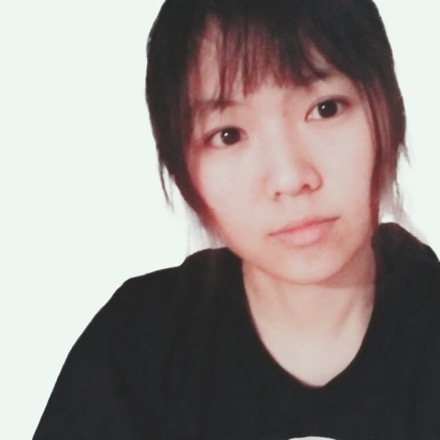
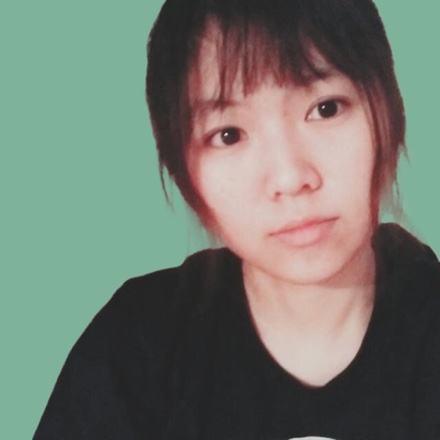
Raise the contrast of the team section's shapes
Measured, not eyeballed. Every text pair in the section already passed -- name
16.09:1, role 4.99, Full bio link 9.02. The failures were the shapes:

  portrait plate vs canvas   1.08:1   (needs 3)
  section hairline           1.24:1   (needs 3)

--p-sage was chosen for the cut-out background when the portrait still sat
inside a bordered white card. With the card gone it sits straight on the
--p-bg canvas at nearly the same lightness, so every portrait lost its edge.

The plate deepens to #7eb29b, 2.36:1. Not the full 3 on purpose: reaching it
in this hue means a loud green that fights the rest of the palette, and
--p-deep at 9.02:1 was rejected because Yichun and Lisha have dark hair and
Lisha wears black, which would lose the silhouette.

Bowen's avatar carried its own #a8c3a7 disc, so it is recoloured to the same
plate. The anti-aliased rim between that disc and the white square needed
handling as a third case -- matching only the two endpoint colours left a pale
ring. It is renamed from -cat.png to -avatar.jpg since it is no longer the
original asset.

The hairline goes to rgba(47,76,85,.3), 1.67:1, so the section break it was
added to draw is actually drawn. Role caps go from 10.6px to 11.2px, over the
caption floor.

diff --git a/index.html b/index.html
@@ -46,7 +46,7 @@
     <link rel="stylesheet" href="polish.css?v=responsive-awards-5">
     <link rel="stylesheet" href="git-original-sections.css?v=2">
     <link rel="stylesheet" href="responsive-fixes.css?v=3">
-    <link rel="stylesheet" href="team-section.css?v=5">
+    <link rel="stylesheet" href="team-section.css?v=6">
   </head>
   <body class="bg-paper font-sans text-ink antialiased">
     <a class="skip-link" href="#top">Skip to main content</a>
@@ -244,7 +244,7 @@
           <div class="team-grid">
             <article class="team-card" data-od-id="team-card-yichun">
               <div class="team-photo">
-                <img decoding="async" loading="lazy" width="440" height="440" src="assets/team-yichun-photo.jpg?v=portrait" alt="Yichun Liu">
+                <img decoding="async" loading="lazy" width="440" height="440" src="assets/team-yichun-photo.jpg?v=plate" alt="Yichun Liu">
               </div>
               <div class="team-info">
                 <div>
@@ -261,7 +261,7 @@
             </article>
             <article class="team-card" data-od-id="team-card-mengwen">
               <div class="team-photo">
-                <img decoding="async" loading="lazy" width="440" height="440" src="assets/team-mengwen-photo.jpg?v=portrait" alt="Mengwen Yu">
+                <img decoding="async" loading="lazy" width="440" height="440" src="assets/team-mengwen-photo.jpg?v=plate" alt="Mengwen Yu">
               </div>
               <div class="team-info">
                 <div>
@@ -278,7 +278,7 @@
             </article>
             <article class="team-card" data-od-id="team-card-lisha">
               <div class="team-photo">
-                <img decoding="async" loading="lazy" width="440" height="440" src="assets/team-lisha-photo.jpg?v=portrait" alt="Lisha Chen">
+                <img decoding="async" loading="lazy" width="440" height="440" src="assets/team-lisha-photo.jpg?v=plate" alt="Lisha Chen">
               </div>
               <div class="team-info">
                 <div>
@@ -290,7 +290,7 @@
             </article>
             <article class="team-card" data-od-id="team-card-bowen">
               <div class="team-photo">
-                <img decoding="async" loading="lazy" width="500" height="500" src="assets/team-bowen-cat.png" alt="Bowen Wei's illustrated cat avatar">
+                <img decoding="async" loading="lazy" width="440" height="440" src="assets/team-bowen-avatar.jpg" alt="Bowen Wei's illustrated cat avatar">
               </div>
               <div class="team-info">
                 <div>
@@ -305,7 +305,7 @@
             <div class="bio-dialog-inner">
               <button type="button" class="bio-dialog-close" data-bio-close aria-label="Close biography">×</button>
               <div class="bio-dialog-head">
-                <img src="assets/team-yichun-photo.jpg?v=portrait" alt="" width="440" height="440">
+                <img src="assets/team-yichun-photo.jpg?v=plate" alt="" width="440" height="440">
                 <div>
                   <h3 id="bio-yichun-name">Yichun Liu</h3>
                   <p class="bio-dialog-role">Design Lead</p>
@@ -331,7 +331,7 @@
             <div class="bio-dialog-inner">
               <button type="button" class="bio-dialog-close" data-bio-close aria-label="Close biography">×</button>
               <div class="bio-dialog-head">
-                <img src="assets/team-mengwen-photo.jpg?v=portrait" alt="" width="440" height="440">
+                <img src="assets/team-mengwen-photo.jpg?v=plate" alt="" width="440" height="440">
                 <div>
                   <h3 id="bio-mengwen-name">Mengwen Yu</h3>
                   <p class="bio-dialog-role">Visual Designer</p>

diff --git a/team-section.css b/team-section.css
@@ -26,8 +26,16 @@
    same white, same centred display headline, same centred subtitle, so the
    space between them read as empty page rather than a section break. */
 #team.team-section {
+  /* The portrait cut-outs are composited onto this exact value, so the plate
+     behind a loading image and the plate inside it are one colour. It is a
+     deeper sage than --p-sage on purpose: measured against the --p-bg canvas,
+     --p-sage came to 1.08:1, which left every portrait with no edge at all. */
+  --team-plate: #7eb29b;
+
   background: var(--p-bg);
-  border-top: 1px solid var(--p-border);
+  /* --p-border composites to 1.24:1 here — invisible, so the section break it
+     was meant to draw was not being drawn. */
+  border-top: 1px solid rgba(47, 76, 85, 0.3);
 }
 
 /* The hierarchy was inverted: "The Team Behind PawPath" rendered larger than
@@ -83,7 +91,7 @@
 }
 
 /* Large enough to read as a portrait. The cut-out background and the circle
-   are the same --p-sage, so the plate and the crop are one shape. */
+   are both --team-plate, so the plate and the crop are one shape. */
 #team .team-card .team-photo,
 #team .team-card:nth-child(2) .team-photo,
 #team .team-card:nth-child(3) .team-photo,
@@ -99,7 +107,7 @@
   overflow: hidden;
   border: 0;
   border-radius: 50%;
-  background: var(--p-sage);
+  background: var(--team-plate);
   box-shadow: none;
   aspect-ratio: 1 / 1;
   transition: transform 220ms cubic-bezier(0.2, 0, 0, 1);
@@ -157,7 +165,7 @@
   padding: 0;
   color: var(--p-muted);
   background: transparent;
-  font-size: 0.66rem;
+  font-size: 0.7rem;
   font-weight: 600;
   line-height: 1.4;
   letter-spacing: 0.09em;
@@ -271,7 +279,7 @@
   flex: 0 0 auto;
   border-radius: 50%;
   object-fit: cover;
-  background: var(--p-sage);
+  background: #7eb29b;
 }
 
 .bio-dialog h3 {
